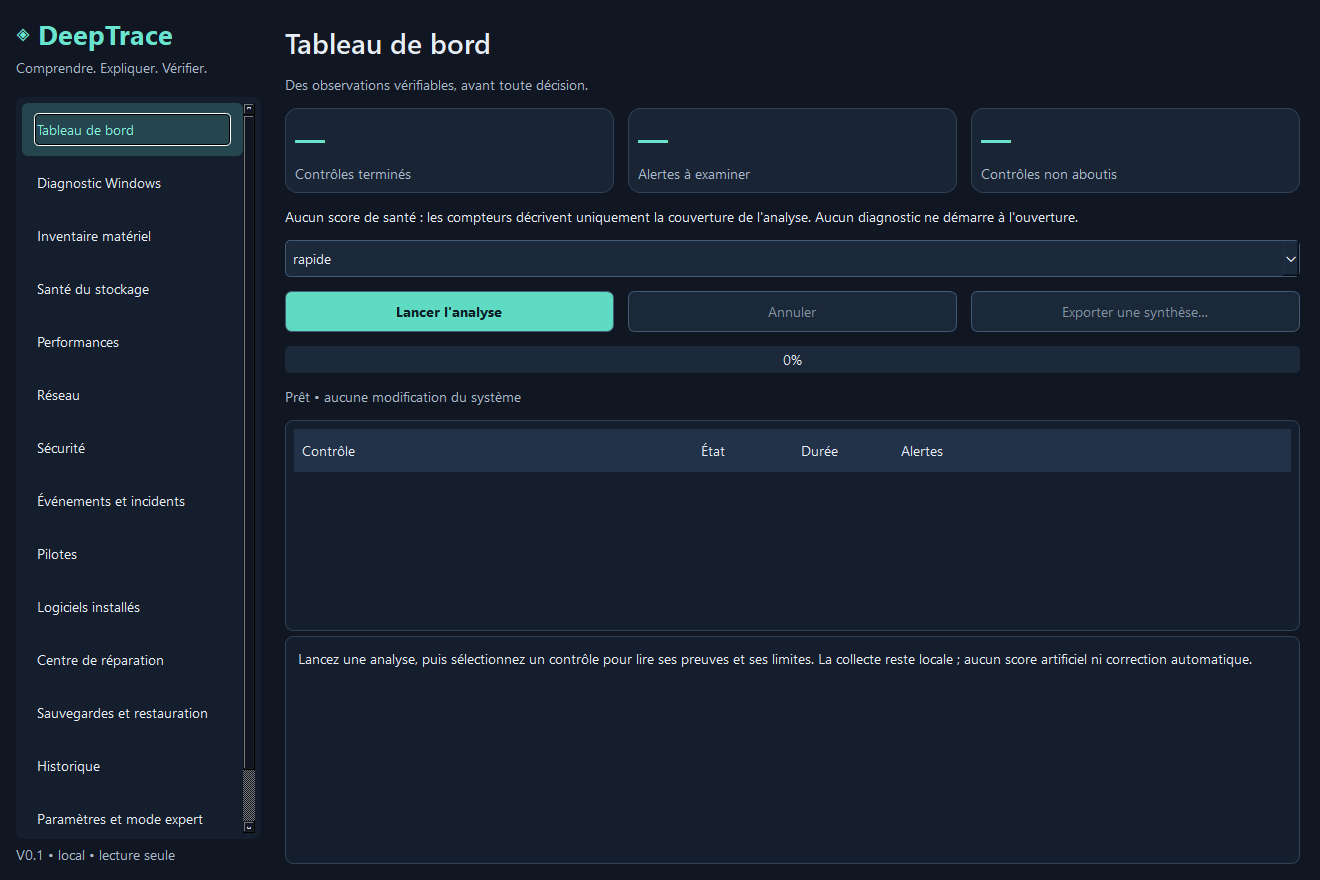
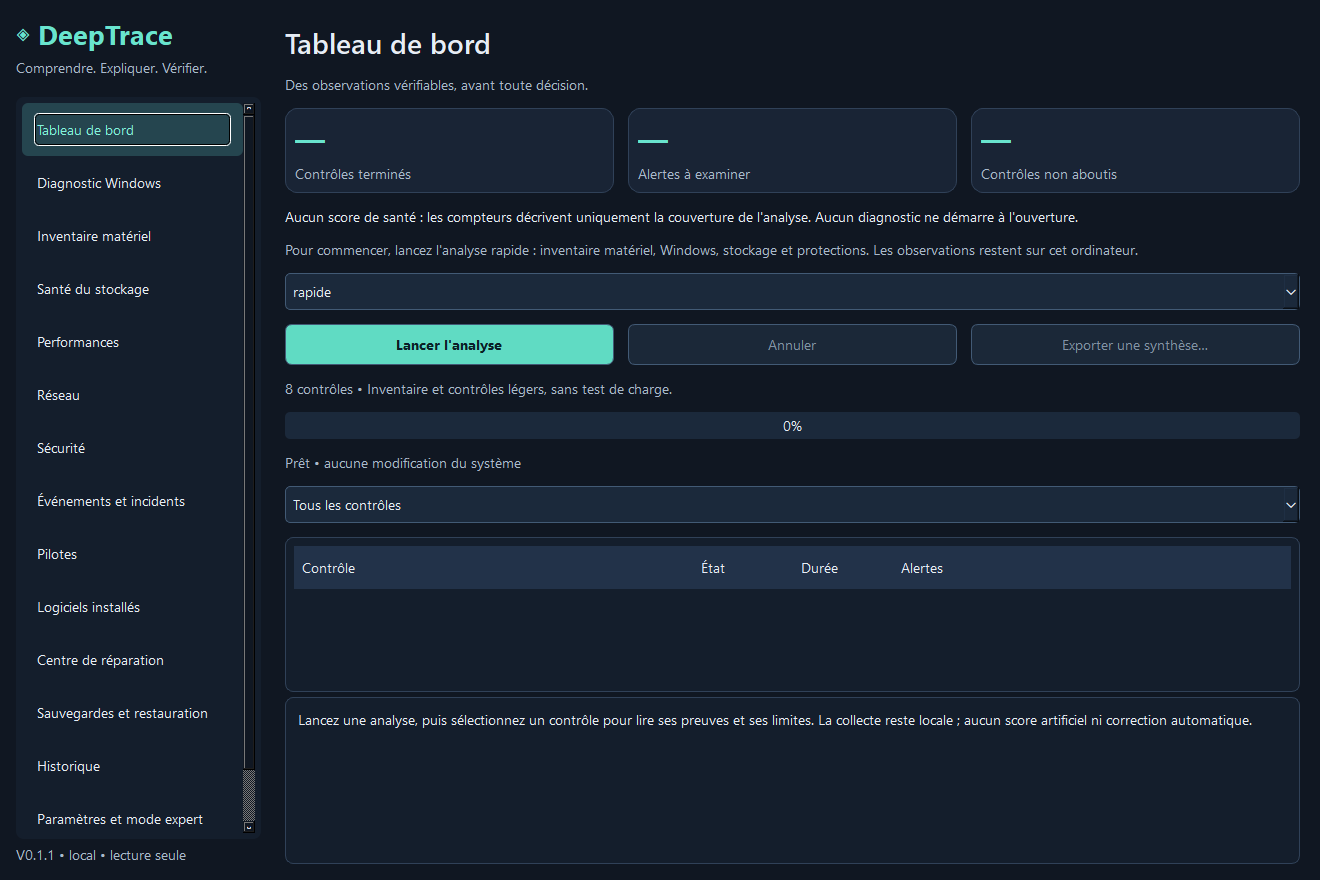
fix: isolate native DLLs and reduce unnecessary rendering

diff --git a/src/deeptrace/ui.py b/src/deeptrace/ui.py
@@ -230,6 +230,9 @@ class MainWindow(QMainWindow):
         self.update_install_requested = False
         self.domain_views = {}
         self.domain_searches = {}
+        self._render_scan_id = None
+        self._domain_render_keys = {}
+        self._detail_key = None
         root = QWidget()
         self.setCentralWidget(root)
         layout = QHBoxLayout(root)
@@ -254,6 +257,9 @@ class MainWindow(QMainWindow):
             specs = [s for s in CATALOG if s.domain == domain]
             box.addWidget(label("\n".join(f"{s.title} : {s.purpose}" for s in specs), "muted"))
             view = browser()
+            view.setPlainText(
+                "Ouvrez cette rubrique après l'analyse pour consulter ses observations."
+            )
             search = QLineEdit()
             search.setPlaceholderText("Rechercher dans les observations…")
             search.setAccessibleName(f"Rechercher dans {domain}")
@@ -266,7 +272,7 @@ class MainWindow(QMainWindow):
         self.build_protection()
         self.build_history()
         self.build_settings()
-        self.navigation.currentRowChanged.connect(self.pages.setCurrentIndex)
+        self.navigation.currentRowChanged.connect(self.change_page)
         self.navigation.setCurrentRow(0)
         for signal in (
             self.expert.toggled,
@@ -875,8 +881,16 @@ class MainWindow(QMainWindow):
 
     def render(self, *_):
         results = self.scan.results if self.scan else []
+        scan_id = self.scan.id if self.scan else None
+        if scan_id != self._render_scan_id:
+            self._domain_render_keys.clear()
+            self._detail_key = None
+            self._render_scan_id = scan_id
+            for view in self.domain_views.values():
+                view.clear()
         selected = self.results.currentItem()
         selected_id = selected.data(0, Qt.ItemDataRole.UserRole) if selected else None
+        self.results.blockSignals(True)
         self.results.clear()
         for result in results:
             spec = BY_ID[result.collector_id]
@@ -907,6 +921,8 @@ class MainWindow(QMainWindow):
         for metric, value in zip(self.metrics, counts, strict=True):
             metric.setText(str(value) if self.scan else "—")
         self.apply_result_filter()
+        self.results.blockSignals(False)
+        self.show_selected(self.results.currentItem(), None)
         windows = next(
             (
                 r.data[0]
@@ -928,13 +944,7 @@ class MainWindow(QMainWindow):
             self.system_summary.setText(" • ".join(summary))
         elif self.scan:
             self.system_summary.setText("Résumé système indisponible dans les contrôles exécutés.")
-        for domain, view in self.domain_views.items():
-            relevant = [r for r in results if BY_ID[r.collector_id].domain == domain]
-            view.setHtml(
-                "".join(self.result_html(r) for r in relevant)
-                or "<p>Aucun contrôle de ce domaine exécuté dans l'analyse sélectionnée.</p>"
-            )
-            self.find_in_view(view, self.domain_searches[domain].text())
+        self.render_visible_domain()
         if not results:
             self.detail.setPlainText(
                 "Lancez une analyse, puis sélectionnez un contrôle pour lire ses "
@@ -946,8 +956,36 @@ class MainWindow(QMainWindow):
         if current and self.scan:
             key = current.data(0, Qt.ItemDataRole.UserRole)
             result = next((r for r in self.scan.results if r.collector_id == key), None)
-            if result:
+            signature = (self.scan.id, key, id(result), self.expert.isChecked())
+            if result and signature != self._detail_key:
                 self.detail.setHtml(self.result_html(result))
+                self._detail_key = signature
+
+    def change_page(self, index):
+        self.pages.setCurrentIndex(index)
+        self.render_visible_domain()
+
+    def render_visible_domain(self):
+        item = self.navigation.currentItem()
+        domain = item.text() if item else None
+        if domain not in self.domain_views:
+            return
+        results = self.scan.results if self.scan else []
+        relevant = [r for r in results if BY_ID[r.collector_id].domain == domain]
+        signature = (
+            self.scan.id if self.scan else None,
+            self.expert.isChecked(),
+            tuple(id(r) for r in relevant),
+        )
+        if self._domain_render_keys.get(domain) == signature:
+            return
+        view = self.domain_views[domain]
+        view.setHtml(
+            "".join(self.result_html(r) for r in relevant)
+            or "<p>Aucun contrôle de ce domaine exécuté dans l'analyse sélectionnée.</p>"
+        )
+        self._domain_render_keys[domain] = signature
+        self.find_in_view(view, self.domain_searches[domain].text())
 
     def export(self):
         if not self.scan or not self.scan.finished_at:

diff --git a/tests/test_ui.py b/tests/test_ui.py
@@ -217,3 +217,37 @@ def test_update_waits_for_analysis_and_preserves_data_dir(app, tmp_path, monkeyp
     assert window.pending_update is None
     window.deleteLater()
     QCoreApplication.sendPostedEvents(None, QEvent.Type.DeferredDelete)
+
+
+def test_hidden_heavy_domains_are_rendered_lazily_and_only_once(app, tmp_path, monkeypatch):
+    from PySide6.QtCore import Qt
+
+    window = MainWindow(tmp_path)
+    window.scan = Scan("approfondie", finished_at=utc_now())
+    window.scan.results = [
+        CollectorResult("windows", Status.OK, data=[{"Caption": "Windows test"}]),
+        CollectorResult(
+            "software", Status.OK, data=[{"DisplayName": f"App {i}"} for i in range(500)]
+        ),
+    ]
+    calls = []
+    original = window.result_html
+
+    def track(result):
+        calls.append(result.collector_id)
+        return original(result)
+
+    monkeypatch.setattr(window, "result_html", track)
+    window.render()
+    window.render()
+    assert calls == ["windows"]
+    item = window.navigation.findItems("Logiciels installés", Qt.MatchFlag.MatchExactly)[0]
+    window.navigation.setCurrentItem(item)
+    assert calls.count("software") == 1
+    window.render()
+    assert calls.count("software") == 1
+    window.expert.setChecked(True)
+    assert calls.count("software") == 2
+    window.close()
+    window.deleteLater()
+    QCoreApplication.sendPostedEvents(None, QEvent.Type.DeferredDelete)

diff --git a/src/deeptrace/bootstrap.py b/src/deeptrace/bootstrap.py
@@ -1,7 +1,10 @@
 """Démarrage graphique et erreurs maîtrisées, y compris sans console Windows."""
 
 import logging
+import os
+import re
 import sys
+import traceback
 from logging.handlers import RotatingFileHandler
 from pathlib import Path
 
@@ -47,3 +50,27 @@ def install_exception_handler() -> None:
         )
 
     sys.excepthook = handle
+
+
+def record_startup_failure(error: Exception) -> Path | None:
+    """Dernier recours sans Qt, sans contenu d'exception ni chemin de source privé."""
+    directory = Path(os.environ.get("LOCALAPPDATA", Path.home())) / "DeepTrace"
+    if "--data-dir" in sys.argv:
+        index = sys.argv.index("--data-dir") + 1
+        if index < len(sys.argv):
+            directory = Path(sys.argv[index])
+    lines = [f"type={type(error).__name__}"]
+    module = getattr(error, "name", None)
+    if isinstance(module, str) and re.fullmatch(r"[A-Za-z0-9_.]+", module):
+        lines.append(f"module={module}")
+    lines.extend(
+        f"{Path(frame.filename).name}:{frame.lineno} {frame.name}"
+        for frame in traceback.extract_tb(error.__traceback__)[-12:]
+    )
+    try:
+        directory.mkdir(parents=True, exist_ok=True)
+        output = directory / "startup-error.log"
+        output.write_text("\n".join(lines) + "\n", encoding="utf-8")
+        return output
+    except OSError:
+        return None

diff --git a/tools/windows_entry.py b/tools/windows_entry.py
@@ -1,6 +1,22 @@
 """Point d'entrée absolu pour PyInstaller ; aucun import relatif au script gelé."""
 
-from deeptrace.__main__ import main
-
 if __name__ == "__main__":
-    raise SystemExit(main())
+    try:
+        from deeptrace.__main__ import main
+
+        raise SystemExit(main())
+    except Exception as error:
+        import ctypes
+
+        from deeptrace.bootstrap import record_startup_failure
+
+        log = record_startup_failure(error)
+        detail = f"Détails techniques : {log}" if log else "Le journal est inaccessible."
+        ctypes.windll.user32.MessageBoxW(
+            None,
+            "Un composant de DeepTrace n'a pas pu démarrer. Aucun paramètre Windows "
+            f"n'a été modifié.\n\n{detail}",
+            "DeepTrace — erreur de démarrage",
+            0x10,
+        )
+        raise SystemExit(1) from None

diff --git a/tests/test_startup.py b/tests/test_startup.py
@@ -32,3 +32,16 @@ def test_cli_inaccessible_directory_is_reported(tmp_path, monkeypatch, capsys):
     assert main() == 1
     assert "inaccessible" in capsys.readouterr().err
     assert invalid.read_text("utf-8") == "keep"
+
+
+def test_startup_diagnostic_omits_exception_message_and_private_source_path(tmp_path, monkeypatch):
+    from deeptrace.bootstrap import record_startup_failure
+
+    monkeypatch.setattr("sys.argv", ["DeepTrace.exe", "--data-dir", str(tmp_path)])
+    try:
+        raise ModuleNotFoundError("private token secret", name="PySide6.support.deprecated")
+    except ModuleNotFoundError as error:
+        output = record_startup_failure(error)
+    text = output.read_text("utf-8")
+    assert "module=PySide6.support.deprecated" in text
+    assert "secret" not in text and str(tmp_path) not in text

diff --git a/docs/STATUS.md b/docs/STATUS.md
@@ -21,7 +21,7 @@ Il ne détecte pas un crash ultérieur. Les binaires ne sont pas signés Authent
 
 ## Vérifications acquises
 
-- 77 tests locaux réussis sous Python stable 3.13.17, sortie normale du processus.
+- 79 tests locaux réussis sous Python stable 3.13.17, sortie normale du processus.
 - Ruff lint et format réussis.
 - Tests de consentement/persistance, sources réseau autorisées, taille/empreinte,
   annulation, remplacement, conservation de l'ancien binaire et retour arrière simulés.
@@ -31,8 +31,38 @@ Il ne détecte pas un crash ultérieur. Les binaires ne sont pas signés Authent
 - Historique Git avant publication : 80 versions de fichiers vérifiées, aucun motif bloquant.
 - Rapports réels, historiques, journaux et outils téléchargés restent dans local/, ignoré.
 
-La construction finale, la vérification de l'exécutable et la CI de cette livraison sont
-consignées après leur exécution. Qualification VM Windows propre, compte standard distinct,
+Optimisation : les vues masquées sont calculées à leur ouverture et les vues inchangées
+sont réutilisées. Sur ce poste, dix rafraîchissements avec 1 300 lignes synthétiques
+passent de 782,7 ms à 71,0 ms. Ce microbenchmark mesure le coût du rafraîchissement,
+pas un gain global garanti. Aucun sondage permanent de capteurs n'est lancé au repos.
+
+L'analyse rapide du premier exécutable a terminé ses huit collecteurs avec code 0.
+Un import interne Qt manquant au démarrage graphique a été identifié dans le hook
+PyInstaller avec Essentials seul ; il est désormais explicitement inclus. Un journal
+de démarrage sans message d'exception privé a également été ajouté. La validation
+graphique finale porte sur le binaire reconstruit après cette correction.
+
+Le diagnostic d'empaquetage a également révélé une DLL ICU d'un outil tiers collectée via
+le `PATH` du poste. La construction isole désormais ce chemin, nettoie le cache dans le
+projet et refuse les DLL hors des racines approuvées. Les tests de la source seuls ne
+remplacent donc pas la vérification du binaire final.
+
+Le binaire final de 39 473 806 octets a été ouvert et fermé normalement. Le helper réel
+a remplacé et relancé une copie isolée du même binaire, avec sauvegarde de l'ancien
+fichier et conservation du dossier de données. Ce test valide le mécanisme de remplacement,
+sans prétendre simuler toutes les migrations entre versions futures.
+
+Mesure au repos sur ce poste, analyse et vérification réseau désactivées : fenêtre prête
+en 2 506 ms ; 0,0000 seconde CPU relevée sur dix secondes ; 55,5 Mio de mémoire privée
+et 132,5 Mio de jeux résidents cumulés pour les deux processus du mode mono-fichier.
+Les jeux résidents peuvent compter des pages partagées ; la mémoire privée est une
+mesure différente. Ces chiffres sont ponctuels et ne garantissent pas une consommation
+identique sur une autre machine ou pendant une analyse.
+
+SHA-256 du binaire livré :
[1 lines of base64/hex data omitted]
+
+Qualification VM Windows propre, compte standard distinct,
 accessibilité assistée, installateur signé et sauvegardes réelles restent à réaliser.
 
 ## GitHub
@@ -47,3 +77,8 @@ La livraison est préparée sur dev/windows-executable à partir des fondations 
 des corrections de dev/validation-v0.1. La CI construit et conserve les binaires Windows.
 Un tag vX.Y.Z, après validation, publie une Release contenant DeepTrace.exe et
 SHA256SUMS.txt. Aucun nouveau binaire n'est publié sur la simple ouverture d'une PR.
+
+La CI reste bloquée malgré le passage en public : “The job was not started because
+your account is locked due to a billing issue.” Les deux jobs n'ont exécuté aucune étape.
+Les protections restent actives : la PR demeure sans fusion jusqu'au déblocage de CI.
+Un binaire construit et vérifié localement peut être livré avec cette limite indiquée.

diff --git a/docs/DEVELOPMENT.md b/docs/DEVELOPMENT.md
@@ -43,6 +43,12 @@ python -m pip install -r requirements-windows-build.lock
 Le script produit aussi `SHA256SUMS.txt`. Un tag `vX.Y.Z` correspondant à la version
 du code déclenche les validations Windows/Linux, la construction et la Release GitHub.
 
+Le script isole `PATH`, utilise un cache local nettoyé et le `.spec` refuse les bibliothèques
+natives hors du runtime Python, du projet et de Windows. Cette isolation évite de collecter
+une DLL incompatible d'un autre logiciel installé sur le poste de construction.
+`PySide6.support.deprecated` est inclus explicitement car le hook amont teste les
+métadonnées du méta-paquet PySide6, absent quand Essentials seul est installé.
+
 `python tools/capture_ui.py` capture l'écran initial réel sans exécuter de diagnostic.
 `python tools/check_repository.py` vérifie les fichiers suivis avant publication.
 Les résultats de qualification restent dans `docs/TESTING.md` et le résumé `docs/STATUS.md`.

diff --git a/docs/TESTING.md b/docs/TESTING.md
@@ -43,6 +43,12 @@ Ne pas interpréter un succès de collecte comme une validation de la santé du 
 
 ## Non qualifié
 
+V0.1.1 : 79 tests sous Python stable 3.13.17 ; démarrage/fermeture du `.exe` vérifiés,
+remplacement et relance du binaire effectués sur des copies isolées sans intervention
+Windows. L'exécutable inclut explicitement le module Qt dynamique manquant et la
+construction refuse les DLL étrangères au runtime/projet/Windows. Les métriques de
+repos et le microbenchmark d'interface sont décrits dans `STATUS.md`.
+
 VM Windows propre, Windows avec fournisseur manquant, compte standard distinct,
 Windows géré par domaine, lecteurs d'écran, fort DPI et scénarios multimoniteurs.
 La matrice CI Windows/Linux ne remplace pas ces essais. Aucun test de récupération réelle,

diff --git a/README.md b/README.md
@@ -95,6 +95,11 @@ Sécurité, Incidents, Pilotes et Logiciels, ainsi que les centres de réparatio
 l'historique et les paramètres. Les analyses s'exécutent sur un thread de travail.
 L'annulation attend la fin ou le timeout du contrôle courant, puis marque les autres annulés.
 
+Les vues détaillées sont générées à leur ouverture et réutilisées tant que leurs données
+ne changent pas. Aucun service permanent ni sondage de capteurs au repos. Les diagnostics
+restent ponctuels, séquentiels et bornés ; la recherche de mise à jour intervient une seule
+fois par démarrage après accord. Les ressources mesurées figurent dans le bilan.
+
 ### Niveaux d'analyse
 
 - **Rapide** : 8 collecteurs légers, généralement quelques dizaines de secondes.
